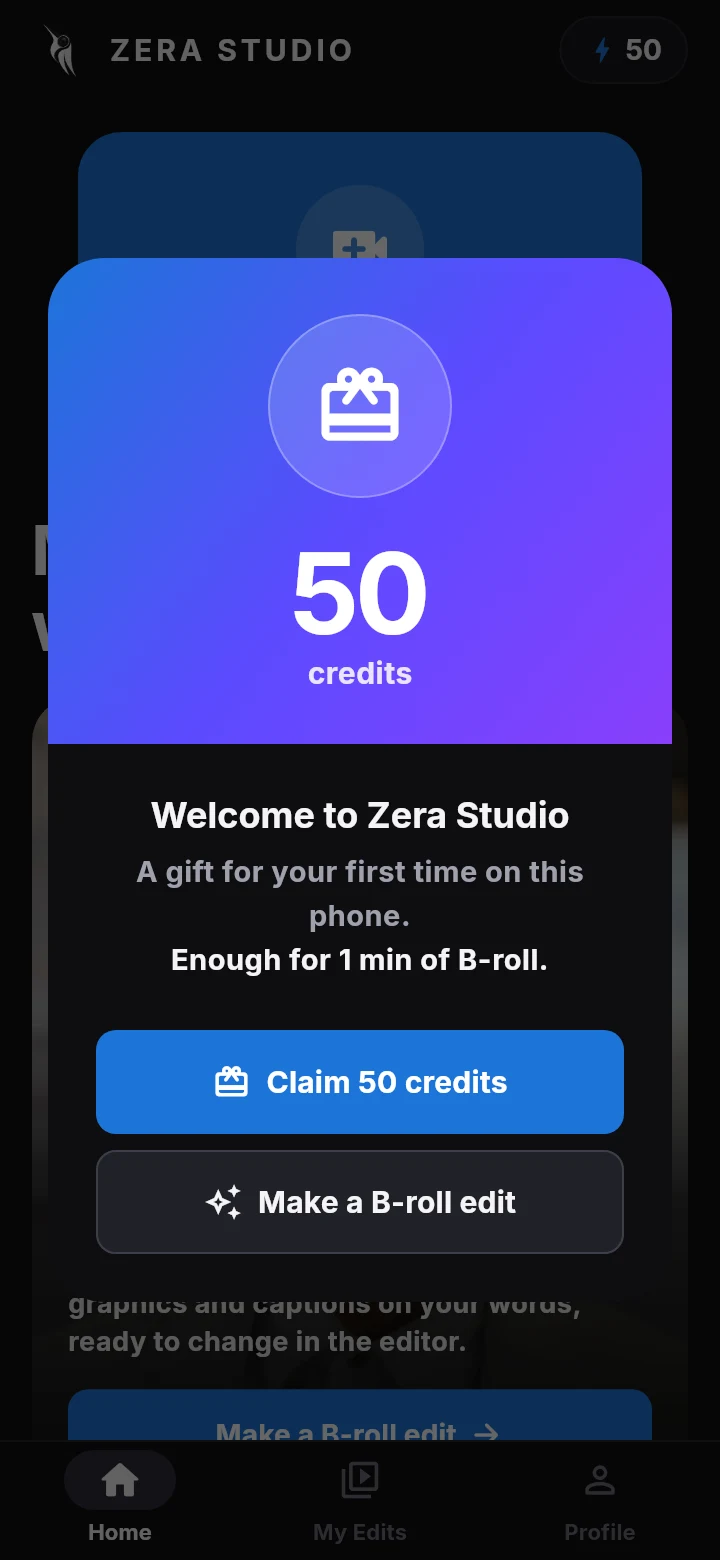
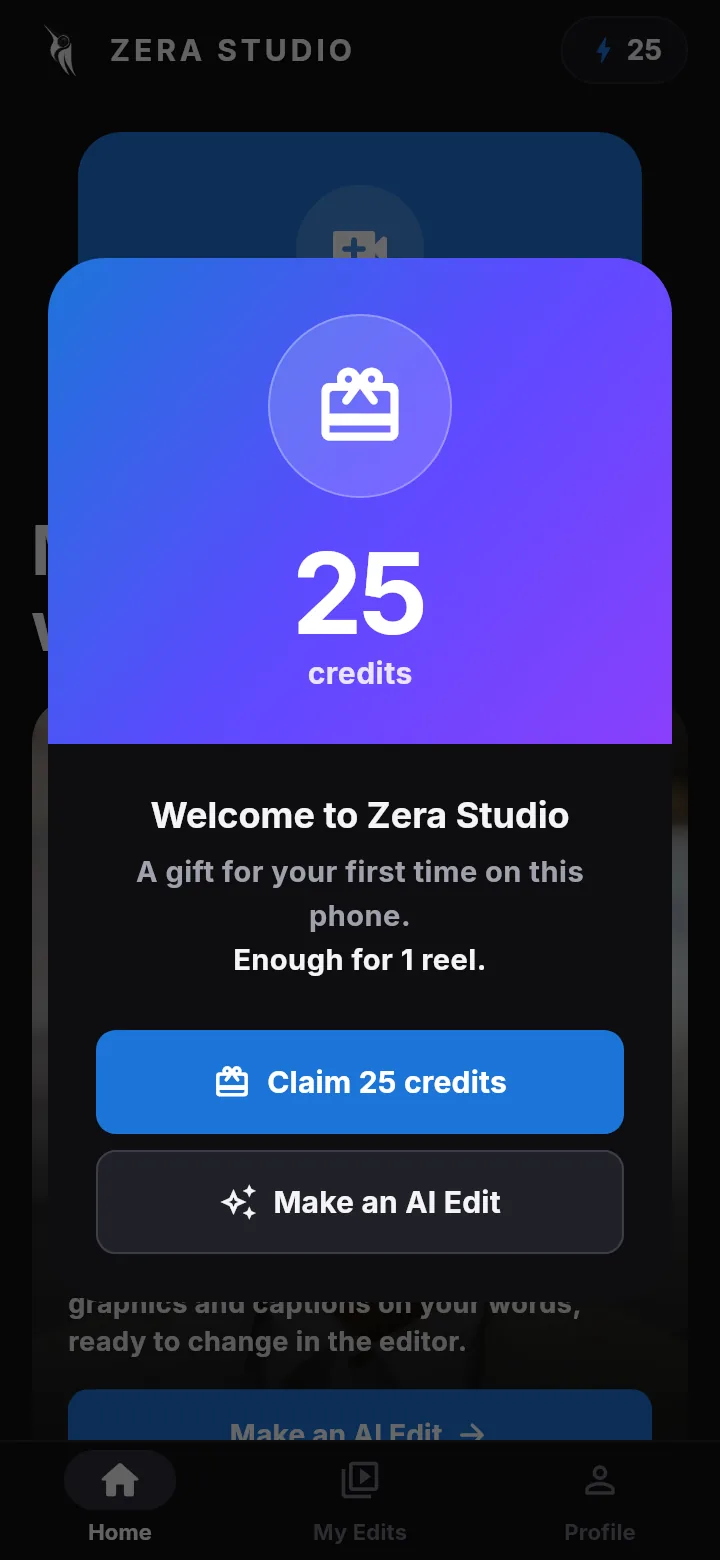
Pricing: welcome credits 25 (was 50), 'enough for one reel'
His call 2026-11-13: new sign-ups get 25 free credits. The welcome screen in
Screens is re-rendered from the app's own widget with 25 (test/ui_render_tool.dart,
dark, 360x780 dp at 2x).

diff --git a/src/components/site/content.ts b/src/components/site/content.ts
@@ -1,4 +1,4 @@
-import { picturesFor, pricing, reel, reelsFor, siteConfig } from "@/config/site";
+import { picturesFor, pricing, reel, reelCount, reelsFor, siteConfig } from "@/config/site";
 
 /**
  * Words on the site, in one place. Facts here must match the app and the server
@@ -54,7 +54,7 @@ export const captionStyles = [
 ];
 
 export const plans = [
-  { name: "Free", price: "₹0", per: "", lines: [`${pricing.welcomeCredits} credits once, about ${reelsFor(pricing.welcomeCredits)} reels`, "Full editor and export, forever", "With ads"], cta: "Download" },
+  { name: "Free", price: "₹0", per: "", lines: [`${pricing.welcomeCredits} credits once, enough for ${reelCount(pricing.welcomeCredits)}`, "Full editor and export, forever", "With ads"], cta: "Download" },
   { name: pricing.basic.name, price: pricing.basic.price, per: "/ month", lines: [`About ${reelsFor(pricing.basic.credits)} reels a month`, `Up to ${picturesFor(pricing.basic.credits)} AI images or backgrounds`, `${pricing.basic.credits} credits, every AI feature`, "No ads"], cta: "Get Basic" },
   { name: "Pro", price: pricing.pro[0].price, per: "/ month", lines: [`About ${reelsFor(pricing.pro[0].credits)} reels a month`, `or about ${reelsFor(pricing.pro[1].credits)} for ${pricing.pro[1].price}`, `Up to ${picturesFor(pricing.pro[0].credits)} AI images or backgrounds (${picturesFor(pricing.pro[1].credits)} on ${pricing.pro[1].price})`, "No ads"], cta: "Get Pro", hot: true },
 ];

diff --git a/src/components/site/features.ts b/src/components/site/features.ts
@@ -1,4 +1,4 @@
-import { pricing, reel, reelsFor } from "@/config/site";
+import { pricing, reel, reelCount, reelsFor } from "@/config/site";
 
 /**
  * The feature pages (2026-10-13, his ask: rank for every feature, "AI video editor" above all). One entry per page,
@@ -77,7 +77,7 @@ export const features: Feature[] = [
       ["If it fails", "The credits come back"],
       ["Result", "Opens in the editor; export from 480p to 4K"],
     ],
-    example: `A ${reel.seconds}-second reel costs ${reel.credits} credits, so the ${W} free credits every new phone gets make about ${reelsFor(W)} reels, and the Basic plan makes about ${reelsFor(pricing.basic.credits)} a month.`,
+    example: `A ${reel.seconds}-second reel costs ${reel.credits} credits, so the ${W} free credits every new phone gets make ${reelCount(W)}, and the Basic plan makes about ${reelsFor(pricing.basic.credits)} a month.`,
     who: [
       { t: "Talking-head creators", d: "Tips, explainers and opinions that need visuals between the words." },
       { t: "Coaches and teachers", d: "Lessons that land better when the screen shows what you describe." },

diff --git a/src/config/site.ts b/src/config/site.ts
@@ -68,6 +68,8 @@ export const siteConfig = {
  */
 export const reel = { seconds: 30, credits: 15 } as const;
 export const reelsFor = (credits: number) => Math.floor(credits / reel.credits);
+/** "one reel" or "about 20 reels": the welcome's 25 credits make exactly one. */
+export const reelCount = (credits: number) => (reelsFor(credits) === 1 ? "one reel" : `about ${reelsFor(credits)} reels`);
 
 /**
  * AI images (the B-roll chat's "Image") and AI backgrounds (Change background) cost the same flat 6 credits each
@@ -78,7 +80,8 @@ export const picture = { credits: 6 } as const;
 export const picturesFor = (credits: number) => Math.floor(credits / picture.credits);
 
 export const pricing = {
-  welcomeCredits: 50,
+  // 25 since 2026-11-13 (his call; 50 from 2026-10-17, 100 before), the same as the server's `ops/credits.welcome`.
+  welcomeCredits: 25,
   costs: [
     { feature: "AI B-roll", amount: String(reel.credits), unit: `credits / ${reel.seconds}-second reel` },
     { feature: "Auto captions (Auto, Hindi, English)", amount: "1", unit: "credit / min" },
